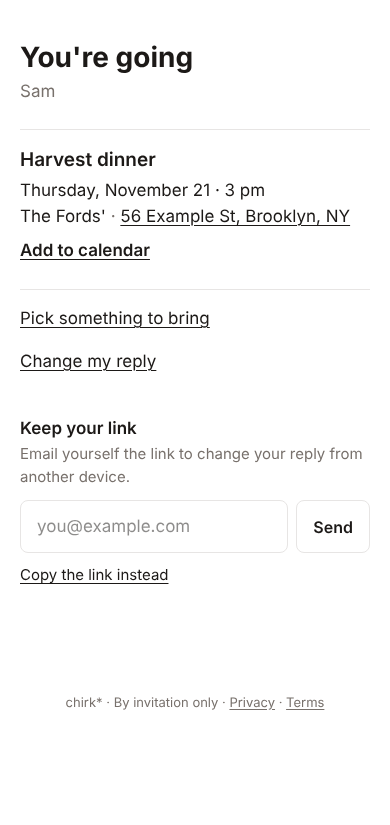
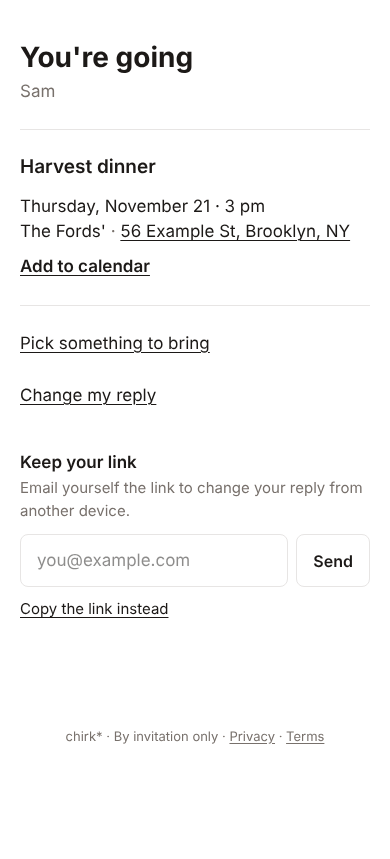
Guest flow accessibility pass: a11y script, two 44px tap fixes, heading on the confirmation, iPhone checklist
Claude-Session: https://claude.ai/code/session_01QEhNiqdcSBmSfKonPFu65E

diff --git a/src/app/[slug]/r/[token]/page.tsx b/src/app/[slug]/r/[token]/page.tsx
@@ -35,8 +35,8 @@ export default async function YourRsvp({
       {h.going === null ? (
         // A named guest who hasn't answered: say hi, and the reply form is right here with their names in it.
         <>
-          <a href={`/${slug}`} className="block text-[17px] font-semibold">{data.event.title}</a>
-          <p className="text-[15px] text-soft">{when(data.event)}</p>
+          <a href={`/${slug}`} className="tap text-[17px] font-semibold">{data.event.title}</a>
+          <p className="-mt-2 text-[15px] text-soft">{when(data.event)}</p>
           <h1 className="mt-6 text-[28px] leading-tight font-bold">Hi {joinNames(h.names)}!</h1>
           <p className="mt-1 mb-6 text-[17px] text-soft">Your RSVP</p>
           <div>
@@ -71,7 +71,7 @@ export default async function YourRsvp({
       </p>
 
       <section className="mt-6 border-y border-line py-4">
-        <a href={`/${slug}`} className="text-[19px] font-semibold">{data.event.title}</a>
+        <h2><a href={`/${slug}`} className="tap text-[19px] font-semibold">{data.event.title}</a></h2>
         <p className="mt-1 text-[17px]">{when(data.event)}</p>
         {(data.event.place || data.event.address) && (
           <p className="text-[17px]">
@@ -88,7 +88,7 @@ export default async function YourRsvp({
           {parts.length > 0 && <>Coming to: <strong>{listText(parts)}</strong><br /></>}
           {data.event.bring_prompt && (bringing.length
             ? <>Bringing: <strong>{bringing.join(", ")}</strong></>
-            : <a href="?change=1" className="link">Pick something to bring</a>)}
+            : <a href="?change=1" className="link tap">Pick something to bring</a>)}
         </p>
       )}
 

diff --git a/src/app/[slug]/rsvp/page.tsx b/src/app/[slug]/rsvp/page.tsx
@@ -18,8 +18,8 @@ export default async function RsvpPage({ params, searchParams }: { params: Promi
     <>
     <main className="guest mx-auto max-w-lg px-5 pt-4 pb-12">
       {/* The event stays in view: what you're replying to. */}
-      <a href={`/${slug}`} className="block text-[17px] font-semibold">{data.event.title}</a>
-      <p className="text-[15px] text-soft">{when(data.event)}</p>
+      <a href={`/${slug}`} className="tap text-[17px] font-semibold">{data.event.title}</a>
+      <p className="-mt-2 text-[15px] text-soft">{when(data.event)}</p>
       <h1 className="mt-6 mb-6 text-[28px] font-bold">Your RSVP</h1>
       <RsvpForm
         slug={slug} bringPrompt={data.event.bring_prompt} askKids={data.event.ask_kids} notePrompt={data.event.note_prompt} noteHint={data.event.note_hint}

diff --git a/docs/A11Y_CHECKS.md b/docs/A11Y_CHECKS.md
@@ -1,0 +1,53 @@
+# Guest flow: accessibility and iPhone checks
+
+*Nov 18, 2026. Stage 3 follow-up for the v2 guest flow (invite → RSVP → confirmation).*
+
+## Automated (`node scripts/a11y.mjs`)
+
+Runs on fixed fixture events (`scripts/fixtures.mjs`, the same ones as the visual baselines) in Chrome at iPhone size, with reduced motion on. For each screen (detailed invite, light invite, RSVP, confirmation, confirmation while changing the reply) it checks:
+
+- **Tap targets** ≥ 44px tall (links inside a sentence are listed, not failed: WCAG 2.5.8's inline exception).
+- **Every control has a name** (label, aria-label or text).
+- **Text contrast** ≥ 4.5:1 (3:1 for large text), against the real background.
+- **One h1**, and the heading outline.
+- **Keyboard**: Tab through the page; every stop shows a visible focus ring (outline, or a field's border change).
+- **320px wide**: no sideways scroll.
+- **Reduced motion**: nothing animates.
+- `<html lang>` and a page title.
+
+### First run, and what was fixed
+
+| Found | Fix |
+|---|---|
+| The event name link at the top of the RSVP page was 26px tall | 44px tap area (`tap`), same look |
+| "Pick something to bring" on the confirmation was 20px tall | 44px tap area |
+| The confirmation's event name looked like a heading but wasn't one | now an `h2` (screen readers can jump to it) |
+| "No visible focus" on text fields | a false alarm in the script: fields show focus by changing their border; the check now compares focused vs. resting |
+
+Now: **no issues on any of the five screens.** Contrast, names, headings, keyboard order, 320px reflow and reduced motion all passed on the first run.
+
+## On a real iPhone (Hudson, ~10 minutes)
+
+Things only Safari on a phone can show. Use a private tab so it's a fresh guest.
+
+**Safari**
+1. Open the Thanksgiving invite. The photo shows whole; the title, date, place and RSVP are clear without zooming.
+2. Tap **RSVP**. Tap the **Your name** box: does Safari offer to fill in your name (fine) or pop up a big "AutoFill Contact" bar that gets in the way (tell me)?
+3. Type in every box: the page should **not zoom in** when a box is tapped.
+4. Tap an item under **Still needed** on the invite: the RSVP opens with Going and that item picked.
+5. Send the RSVP: the confirmation shows the event, date, place and **Add to calendar**; tap it and check the calendar event looks right.
+6. Settings → Accessibility → Display & Text Size → **Larger Text**: drag to a large size, reload the invite. Nothing should overlap or get cut off.
+
+**VoiceOver** (Settings → Accessibility → VoiceOver, or triple-click the side button if set up)
+7. On the invite, swipe right through the page: it reads the title, date, place, RSVP, the message, then Still needed and Coming, in that order.
+8. Use the rotor (twist two fingers) → **Headings**: you can jump between the event title, Still needed and Coming.
+9. On the RSVP page: Going and Can't make it say whether they're **selected**; picked bring items do too.
+10. On the confirmation: the event name is reachable as a heading; **Add to calendar** reads as a link.
+
+Note anything odd (what you did, what you heard or saw) and send it over; a screen recording works too.
+
+## Not covered yet
+
+- Real VoiceOver and Safari behavior (the list above).
+- Host pages (they move to the v2 patterns in Stage 6; check them then).
+- The Anthropic Frontend Design and Vercel Web Design Guidelines reviews (next).

diff --git a/STATUS.md b/STATUS.md
@@ -14,6 +14,10 @@ Everything up to Nov 16's "fixes-3":
 - Gift exchange: who's in, never-draw pairs, rules, draws, matches by email, reminders
 - Hosts added to their own guest lists as going (new events, co-hosts, copies only)
 
+## Waiting to go live (branch `a11y`)
+- **Accessibility pass on the guest flow** (`docs/A11Y_CHECKS.md`, `node scripts/a11y.mjs`): tap targets, names, contrast, headings, keyboard focus, 320px, reduced motion. Fixed: two links under 44px (the RSVP page's event name, "Pick something to bring"), and the confirmation's event name is now a heading. Everything else passed. Baselines re-captured.
+- **Real-iPhone checklist** for Hudson in `docs/A11Y_CHECKS.md` (Safari AutoFill, no zoom on typing, larger text, VoiceOver order/headings/selected states).
+
 ## Went live Nov 18 (`b2-counts`)
 - **B2 fixed (Message your guests):** the Going / Haven't replied / Everyone choices no longer show a bare email count ("Going · 0" when 3 were going). One quiet line says delivery for the chosen group: "2 emails · 3 need a text".
 - **Copy cleanup (Hudson's brief):** "Send an update without changing the invite." · Going / No reply yet / Everyone · "Write a note" · "Include event details" · **Send update** (then the existing confirm, "Send to 2 guests", and "Sent to 2 ✓"). Copy only: recipients, sending and layout unchanged; the host redesign is still Stage 6. No database step.

diff --git a/README.md b/README.md
@@ -48,7 +48,7 @@ psql "$DATABASE_URL" -f db/thanksgiving-2026.sql
 npm run dev
 ```
 
-Checks before anything goes live (and `node scripts/visual.mjs` compares the guest screens to `visual/baseline`):
+Checks before anything goes live (and `node scripts/visual.mjs` compares the guest screens to `visual/baseline`; `node scripts/a11y.mjs` checks their accessibility):
 ```bash
 npm test                      # unit tests
 npm run build && npm start    # then, in another terminal, with LOGIN_TEST_CODE=123456 CRON_SECRET=testcron set for the server:

diff --git a/docs/CHIRK_UI_PATTERNS.md b/docs/CHIRK_UI_PATTERNS.md
@@ -89,4 +89,5 @@ No new primary button: the reply is done.
 ## Checks
 
 - `npm run check` walks the flow (including picking from Still needed and the confirmation's calendar link).
+- `node scripts/a11y.mjs` checks tap targets, names, contrast, headings, keyboard focus, 320px reflow and reduced motion on the guest screens (`docs/A11Y_CHECKS.md`).
 - `node scripts/visual.mjs` compares the 7 guest screens (390px + desktop) to `visual/baseline`; `--update` after an approved change.
